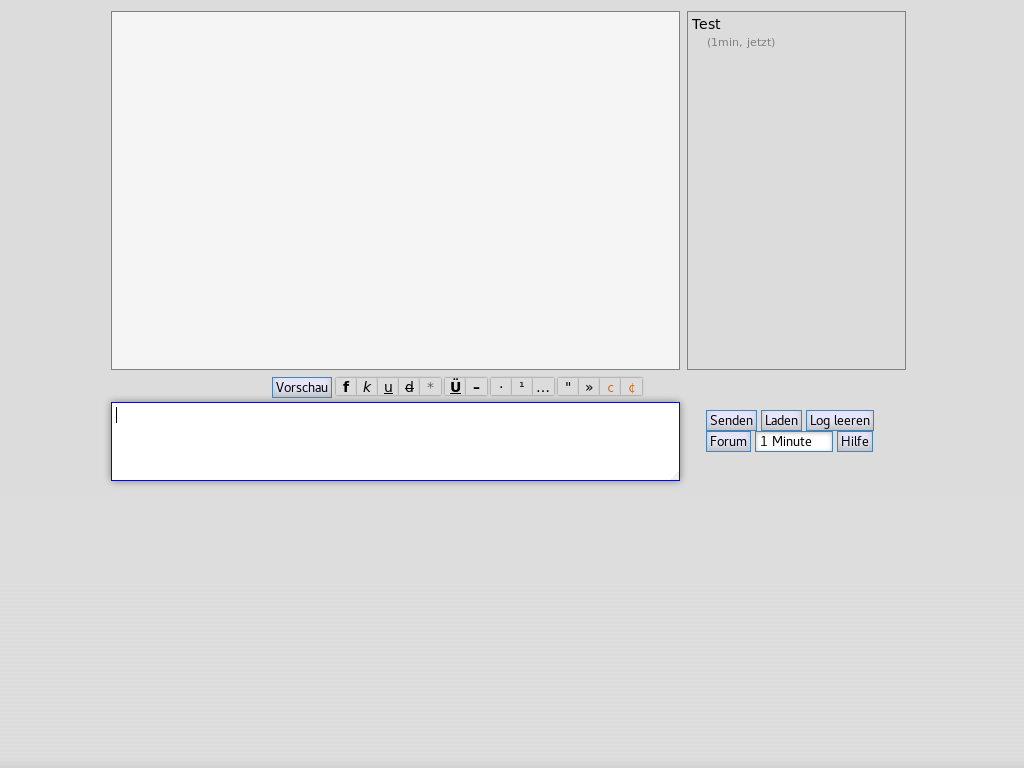
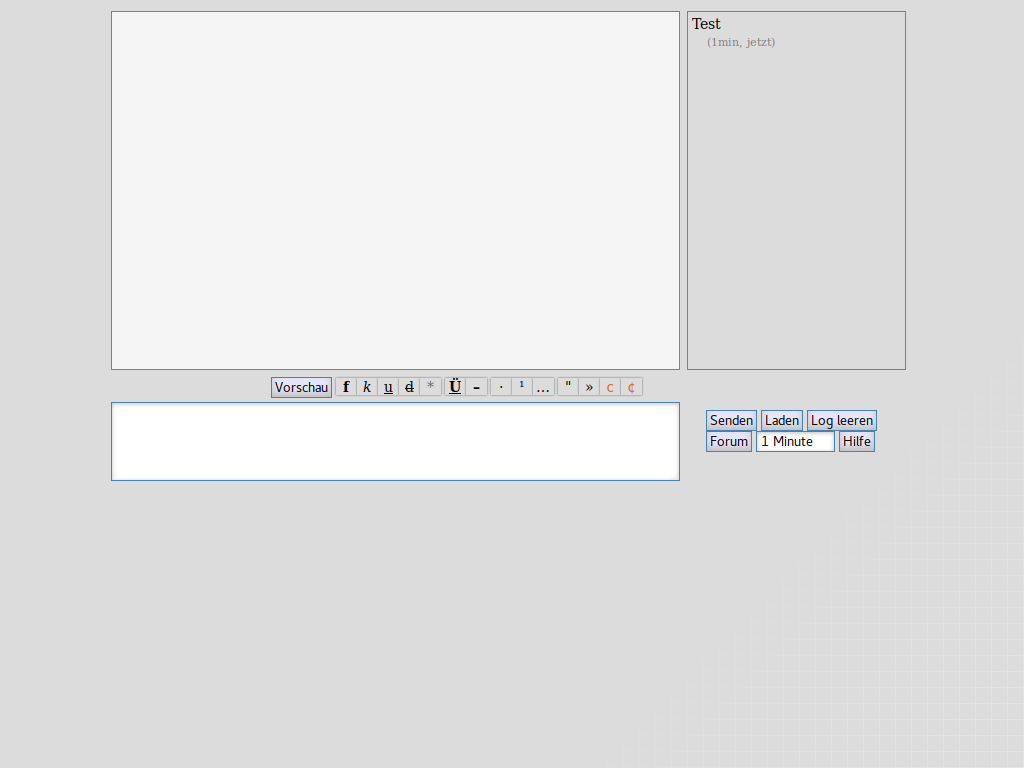
Mal wieder rechts unten ein Gitter angedeutet

diff --git a/public/theme/large.css b/public/theme/large.css
@@ -3,7 +3,7 @@
     padding: 0;
 }
 body {
-    background: gainsboro url('img/hg.png') repeat-x fixed bottom;
+    background: gainsboro url('img/hg.png') no-repeat fixed bottom right;
     text-align: left;
     width: 100%;
     margin: 0 0 5em 0;
